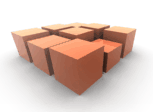
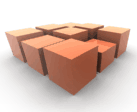
Update

diff --git a/index.html b/index.html
@@ -64,7 +64,7 @@
 				</p>
 			</div>
 			<h2>Research Interests</h2>
-			<div class="left_box"> <img src="images/ad.gif" class="image" alt="Big Image" />
+			<div class="left_box"> <img src="images/ad.png" class="image" alt="Big Image" />
 				<p align="justify"> My Major Research Interest falls into the following domains. <br/> <br/>
 					<b><img src="images/arrow.gif" alt=">" /> Human motion capture systems / Sensors</b><br />
 					<b><img src="images/arrow.gif" alt=">" /> Human Computer Interactions </b><br />
